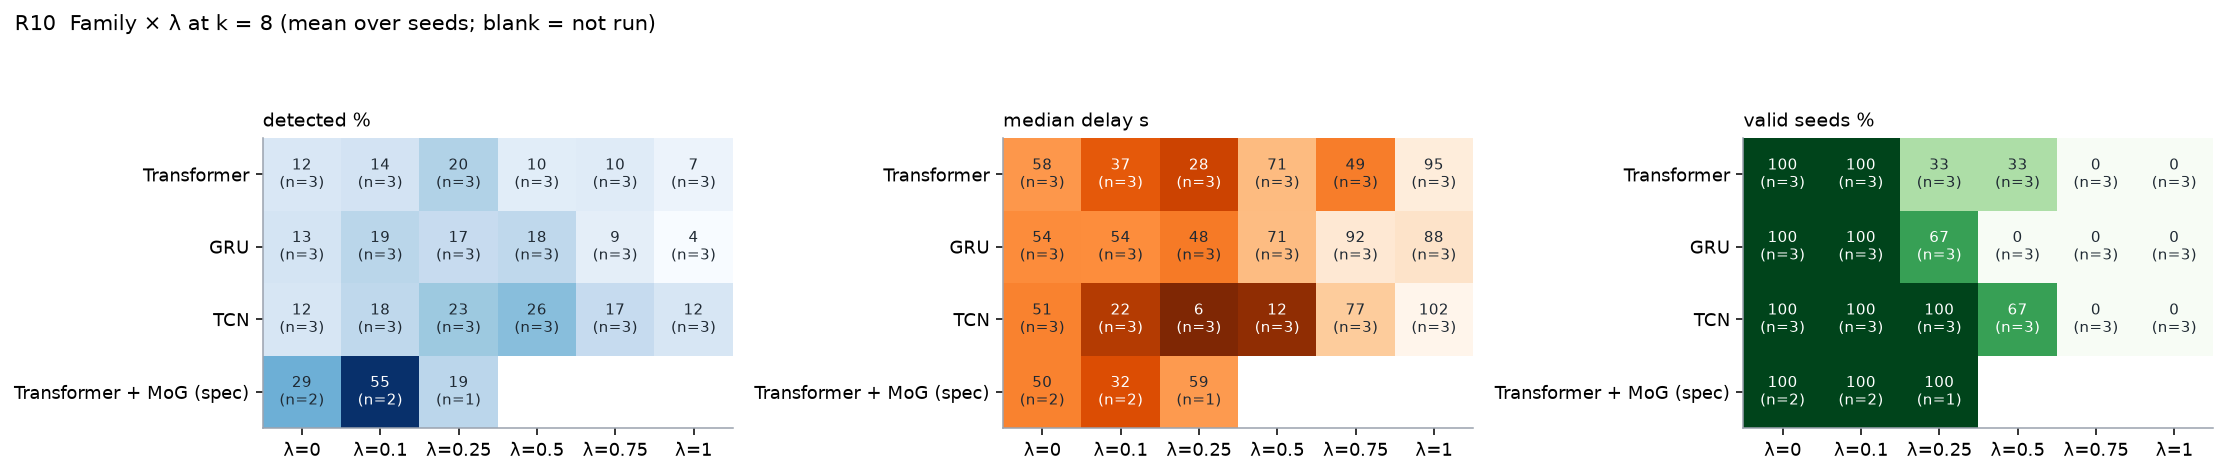
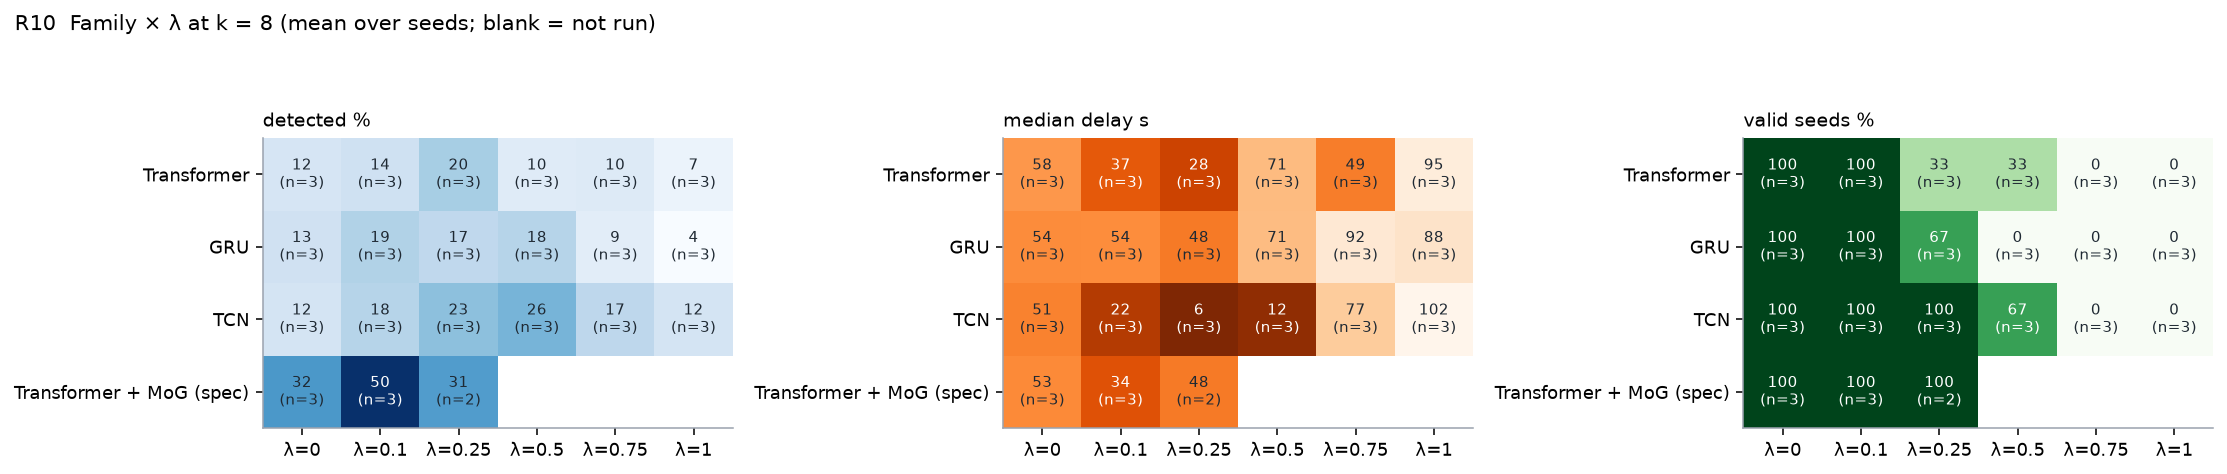
Figures: regenerate summary, cross-variation and per-run dashboards with the new runs

Changed region(s): [[0.1859, 0.7384, 0.2479, 0.9156], [0.4957, 0.7384, 0.5577, 0.9156], [0.093, 0.7384, 0.1549, 0.9156]]

diff --git a/qcd_spec/docs/figs/mog/INDEX.md b/qcd_spec/docs/figs/mog/INDEX.md
@@ -8,17 +8,47 @@ encoder tf (linear out) → k = 128 → q0/q1 tf (4-comp. MoG head), decoder con
 ![losses](cae_etf_qtf_k128_lam0_s0_hmog4r8_olin_losses.png)
 ![iters](cae_etf_qtf_k128_lam0_s0_hmog4r8_olin_iters.png)
 
+## cae_etf_qtf_k16_lam0.25_s0_hmog4r8_olin
+encoder tf (linear out) → k = 16 → q0/q1 tf (4-comp. MoG head), decoder conv, λ = 0.25, seed 0
+![training](cae_etf_qtf_k16_lam0.25_s0_hmog4r8_olin_training.png)
+![losses](cae_etf_qtf_k16_lam0.25_s0_hmog4r8_olin_losses.png)
+![iters](cae_etf_qtf_k16_lam0.25_s0_hmog4r8_olin_iters.png)
+
 ## cae_etf_qtf_k16_lam0_s0_hmog4r8_olin
 encoder tf (linear out) → k = 16 → q0/q1 tf (4-comp. MoG head), decoder conv, λ = 0, seed 0
 ![training](cae_etf_qtf_k16_lam0_s0_hmog4r8_olin_training.png)
 ![losses](cae_etf_qtf_k16_lam0_s0_hmog4r8_olin_losses.png)
 ![iters](cae_etf_qtf_k16_lam0_s0_hmog4r8_olin_iters.png)
 
+## cae_etf_qtf_k2_lam0.25_s0_hmog4r8_olin
+encoder tf (linear out) → k = 2 → q0/q1 tf (4-comp. MoG head), decoder conv, λ = 0.25, seed 0
+![training](cae_etf_qtf_k2_lam0.25_s0_hmog4r8_olin_training.png)
+![losses](cae_etf_qtf_k2_lam0.25_s0_hmog4r8_olin_losses.png)
+![iters](cae_etf_qtf_k2_lam0.25_s0_hmog4r8_olin_iters.png)
+
+## cae_etf_qtf_k2_lam0_s0_hmog4r8_olin
+encoder tf (linear out) → k = 2 → q0/q1 tf (4-comp. MoG head), decoder conv, λ = 0, seed 0
+![training](cae_etf_qtf_k2_lam0_s0_hmog4r8_olin_training.png)
+![losses](cae_etf_qtf_k2_lam0_s0_hmog4r8_olin_losses.png)
+![iters](cae_etf_qtf_k2_lam0_s0_hmog4r8_olin_iters.png)
+
 ## cae_etf_qtf_k32_lam0_s0_hmog4r8_olin
 encoder tf (linear out) → k = 32 → q0/q1 tf (4-comp. MoG head), decoder conv, λ = 0, seed 0
 ![training](cae_etf_qtf_k32_lam0_s0_hmog4r8_olin_training.png)
 ![losses](cae_etf_qtf_k32_lam0_s0_hmog4r8_olin_losses.png)
 ![iters](cae_etf_qtf_k32_lam0_s0_hmog4r8_olin_iters.png)
+
+## cae_etf_qtf_k4_lam0.25_s0_hmog4r8_olin
+encoder tf (linear out) → k = 4 → q0/q1 tf (4-comp. MoG head), decoder conv, λ = 0.25, seed 0
+![training](cae_etf_qtf_k4_lam0.25_s0_hmog4r8_olin_training.png)
+![losses](cae_etf_qtf_k4_lam0.25_s0_hmog4r8_olin_losses.png)
+![iters](cae_etf_qtf_k4_lam0.25_s0_hmog4r8_olin_iters.png)
+
+## cae_etf_qtf_k4_lam0_s0_hmog4r8_olin
+encoder tf (linear out) → k = 4 → q0/q1 tf (4-comp. MoG head), decoder conv, λ = 0, seed 0
+![training](cae_etf_qtf_k4_lam0_s0_hmog4r8_olin_training.png)
+![losses](cae_etf_qtf_k4_lam0_s0_hmog4r8_olin_losses.png)
+![iters](cae_etf_qtf_k4_lam0_s0_hmog4r8_olin_iters.png)
 
 ## cae_etf_qtf_k64_lam0.25_s0_hmog4r8_olin
 encoder tf (linear out) → k = 64 → q0/q1 tf (4-comp. MoG head), decoder conv, λ = 0.25, seed 0
@@ -44,11 +74,29 @@ encoder tf (linear out) → k = 8 → q0/q1 tf (4-comp. MoG head), decoder conv,
 ![losses](cae_etf_qtf_k8_lam0.1_s1_hmog4r8_olin_losses.png)
 ![iters](cae_etf_qtf_k8_lam0.1_s1_hmog4r8_olin_iters.png)
 
+## cae_etf_qtf_k8_lam0.1_s2_hmog4r8_olin
+encoder tf (linear out) → k = 8 → q0/q1 tf (4-comp. MoG head), decoder conv, λ = 0.1, seed 2
+![training](cae_etf_qtf_k8_lam0.1_s2_hmog4r8_olin_training.png)
+![losses](cae_etf_qtf_k8_lam0.1_s2_hmog4r8_olin_losses.png)
+![iters](cae_etf_qtf_k8_lam0.1_s2_hmog4r8_olin_iters.png)
+
 ## cae_etf_qtf_k8_lam0.25_s0_hmog4r8_olin
 encoder tf (linear out) → k = 8 → q0/q1 tf (4-comp. MoG head), decoder conv, λ = 0.25, seed 0
 ![training](cae_etf_qtf_k8_lam0.25_s0_hmog4r8_olin_training.png)
 ![losses](cae_etf_qtf_k8_lam0.25_s0_hmog4r8_olin_losses.png)
 ![iters](cae_etf_qtf_k8_lam0.25_s0_hmog4r8_olin_iters.png)
+
+## cae_etf_qtf_k8_lam0.25_s1_hmog4r8_olin
+encoder tf (linear out) → k = 8 → q0/q1 tf (4-comp. MoG head), decoder conv, λ = 0.25, seed 1
+![training](cae_etf_qtf_k8_lam0.25_s1_hmog4r8_olin_training.png)
+![losses](cae_etf_qtf_k8_lam0.25_s1_hmog4r8_olin_losses.png)
+![iters](cae_etf_qtf_k8_lam0.25_s1_hmog4r8_olin_iters.png)
+
+## cae_etf_qtf_k8_lam0.25_s2_hmog4r8
+encoder tf → k = 8 → q0/q1 tf (4-comp. MoG head), decoder conv, λ = 0.25, seed 2
+![training](cae_etf_qtf_k8_lam0.25_s2_hmog4r8_training.png)
+![losses](cae_etf_qtf_k8_lam0.25_s2_hmog4r8_losses.png)
+![iters](cae_etf_qtf_k8_lam0.25_s2_hmog4r8_iters.png)
 
 ## cae_etf_qtf_k8_lam0_s0_hmog4r8_olin
 encoder tf (linear out) → k = 8 → q0/q1 tf (4-comp. MoG head), decoder conv, λ = 0, seed 0
@@ -61,4 +109,10 @@ encoder tf (linear out) → k = 8 → q0/q1 tf (4-comp. MoG head), decoder conv,
 ![training](cae_etf_qtf_k8_lam0_s1_hmog4r8_olin_training.png)
 ![losses](cae_etf_qtf_k8_lam0_s1_hmog4r8_olin_losses.png)
 ![iters](cae_etf_qtf_k8_lam0_s1_hmog4r8_olin_iters.png)
+
+## cae_etf_qtf_k8_lam0_s2_hmog4r8_olin
+encoder tf (linear out) → k = 8 → q0/q1 tf (4-comp. MoG head), decoder conv, λ = 0, seed 2
+![training](cae_etf_qtf_k8_lam0_s2_hmog4r8_olin_training.png)
+![losses](cae_etf_qtf_k8_lam0_s2_hmog4r8_olin_losses.png)
+![iters](cae_etf_qtf_k8_lam0_s2_hmog4r8_olin_iters.png)
 
